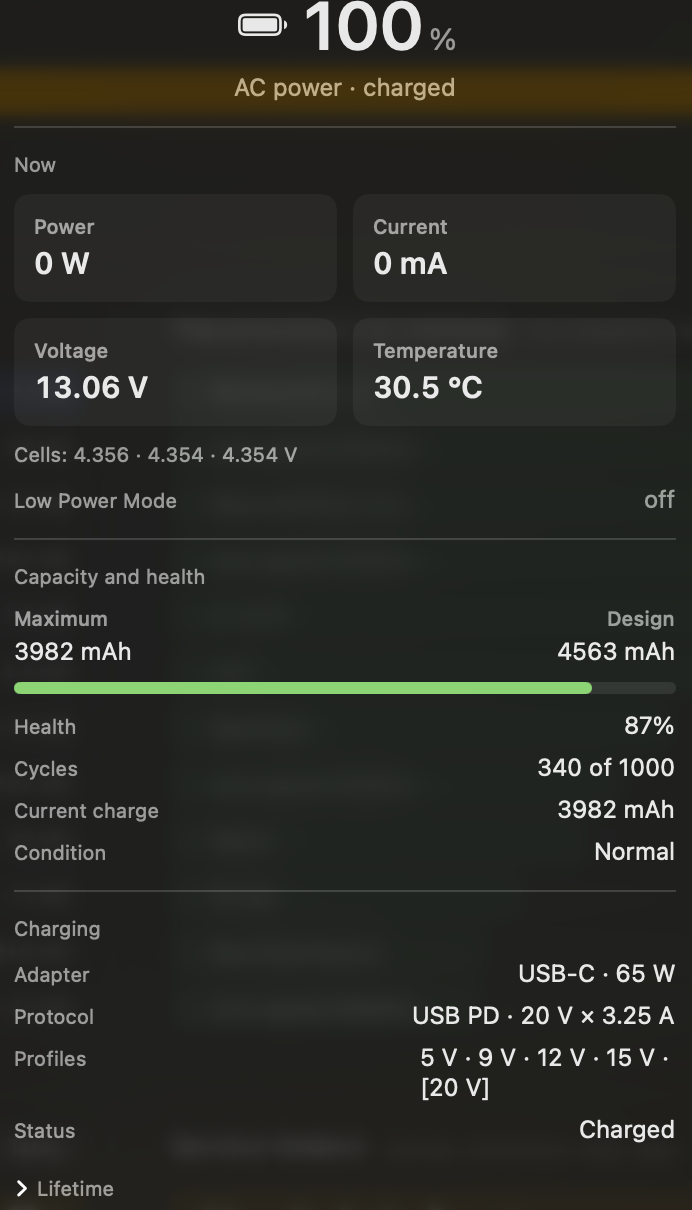
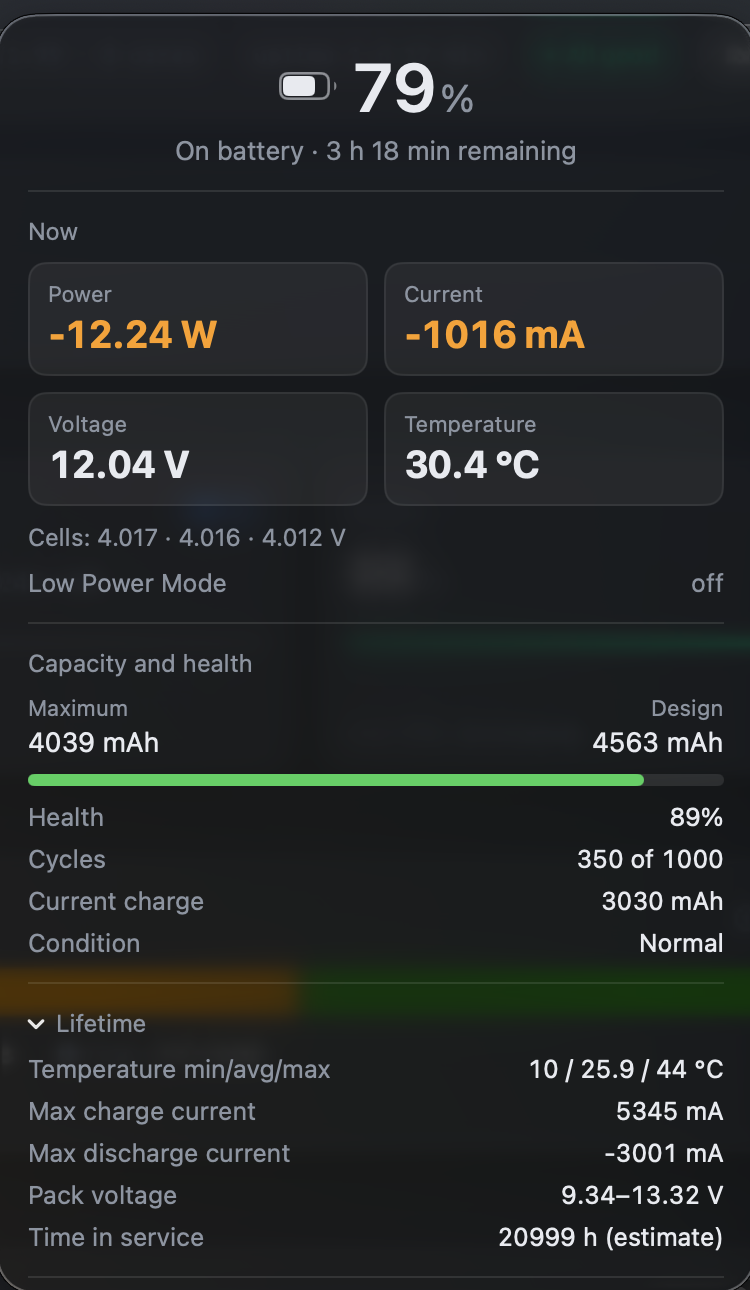
V2-RELEASE: bump to 2.0 "Krieg", refresh README screenshots
Version/codename in build_app.sh, CHANGELOG 2.0 entry, and README/README.ru
screenshots (overview light/dark, settings, battery popover) for the v2.0 UI
rebuild.

diff --git a/README.ru.md b/README.ru.md
@@ -8,13 +8,13 @@
 
 ## Скриншоты
 
-| Обзор | Детали |
+| Обзор (светлая тема) | Обзор (тёмная тема) |
 | --- | --- |
-| ![Обзор: CPU, память, swap, диск, батарея, рекомендации](docs/screenshots/overview.png) | ![Детали: безопасность, автозапуск, SMART, Time Machine](docs/screenshots/details.png) |
+| ![Обзор: CPU, память, swap, диск, батарея, рекомендации](docs/screenshots/overview-light.png) | ![Обзор в тёмной теме: CPU, память, swap, диск, батарея, рекомендации](docs/screenshots/overview-dark.png) |
 
-| Энергосбережение | Батарея |
+| Настройки | Батарея |
 | --- | --- |
-| ![Настройки энергосбережения (pmset)](docs/screenshots/energy-settings.png) | ![Всплывающее окно батареи: мощность, напряжение, температура, ёмкость](docs/screenshots/battery-popover.png) |
+| ![Настройки: боковая панель с разделами «Общие» и «Мониторинг»](docs/screenshots/settings.png) | ![Всплывающее окно батареи: мощность, напряжение, температура, ёмкость, здоровье](docs/screenshots/battery-popover.png) |
 
 ## Об этом проекте
 

diff --git a/CHANGELOG.md b/CHANGELOG.md
@@ -2,6 +2,34 @@
 
 All notable changes to this project are documented in this file.
 
+## [2.0] (Krieg) - 2026-08-18
+
+Complete visual and structural rebuild of the interface on a new
+design-token system: card-based layout, KPI tiles, an attention summary
+with recommendation capsules, and a quiet/loud information hierarchy that
+surfaces what needs attention and recedes what doesn't.
+
+New since 1.0:
+
+- Redesigned Settings window (sidebar navigation, General/Monitoring pages,
+  configurable process-list length).
+- Redesigned battery popover with power, voltage, temperature, capacity and
+  health.
+- Crash log detection with a 7-day window, collapsed rows and
+  own-app/panic severity.
+- Confirmation gates before Homebrew upgrades and energy-setting changes.
+- Time Machine status distinguishes "unmounted" from "not connected right
+  now" and reports the real reason when Full Disk Access is missing.
+- Bulk delete for orphaned startup-item plists.
+- Live disk/swap verdicts and other readings reported honestly during
+  collection rather than only after it finishes.
+
+Numerous layout, animation and accessibility fixes accumulated across the
+rebuild (segmented controls, disclosure/collapse behaviour, hover states,
+Reduce Motion support, live-resize stability).
+
+Licensed under the MIT License. See LICENSE.
+
 ## [1.0] (Cadia) - 2026-07-20
 
 First public release.

diff --git a/README.md b/README.md
@@ -8,13 +8,13 @@ switchable anytime in Settings.
 
 ## Screenshots
 
-| Overview | Details |
+| Overview (light) | Overview (dark) |
 | --- | --- |
-| ![Overview: CPU, memory, swap, disk and battery tiles, recommendations](docs/screenshots/overview.png) | ![Details: security, startup items, disk SMART data, Time Machine](docs/screenshots/details.png) |
+| ![Overview: CPU, memory, swap, disk and battery tiles, recommendations](docs/screenshots/overview-light.png) | ![Overview in dark appearance: CPU, memory, swap, disk and battery tiles, recommendations](docs/screenshots/overview-dark.png) |
 
-| Energy settings | Battery popover |
+| Settings | Battery popover |
 | --- | --- |
-| ![Energy settings (pmset) editable table](docs/screenshots/energy-settings.png) | ![Battery popover: power, voltage, temperature, capacity and health](docs/screenshots/battery-popover.png) |
+| ![Settings: sidebar navigation with General and Monitoring pages](docs/screenshots/settings.png) | ![Battery popover: power, voltage, temperature, capacity and health](docs/screenshots/battery-popover.png) |
 
 ## About this project
 
